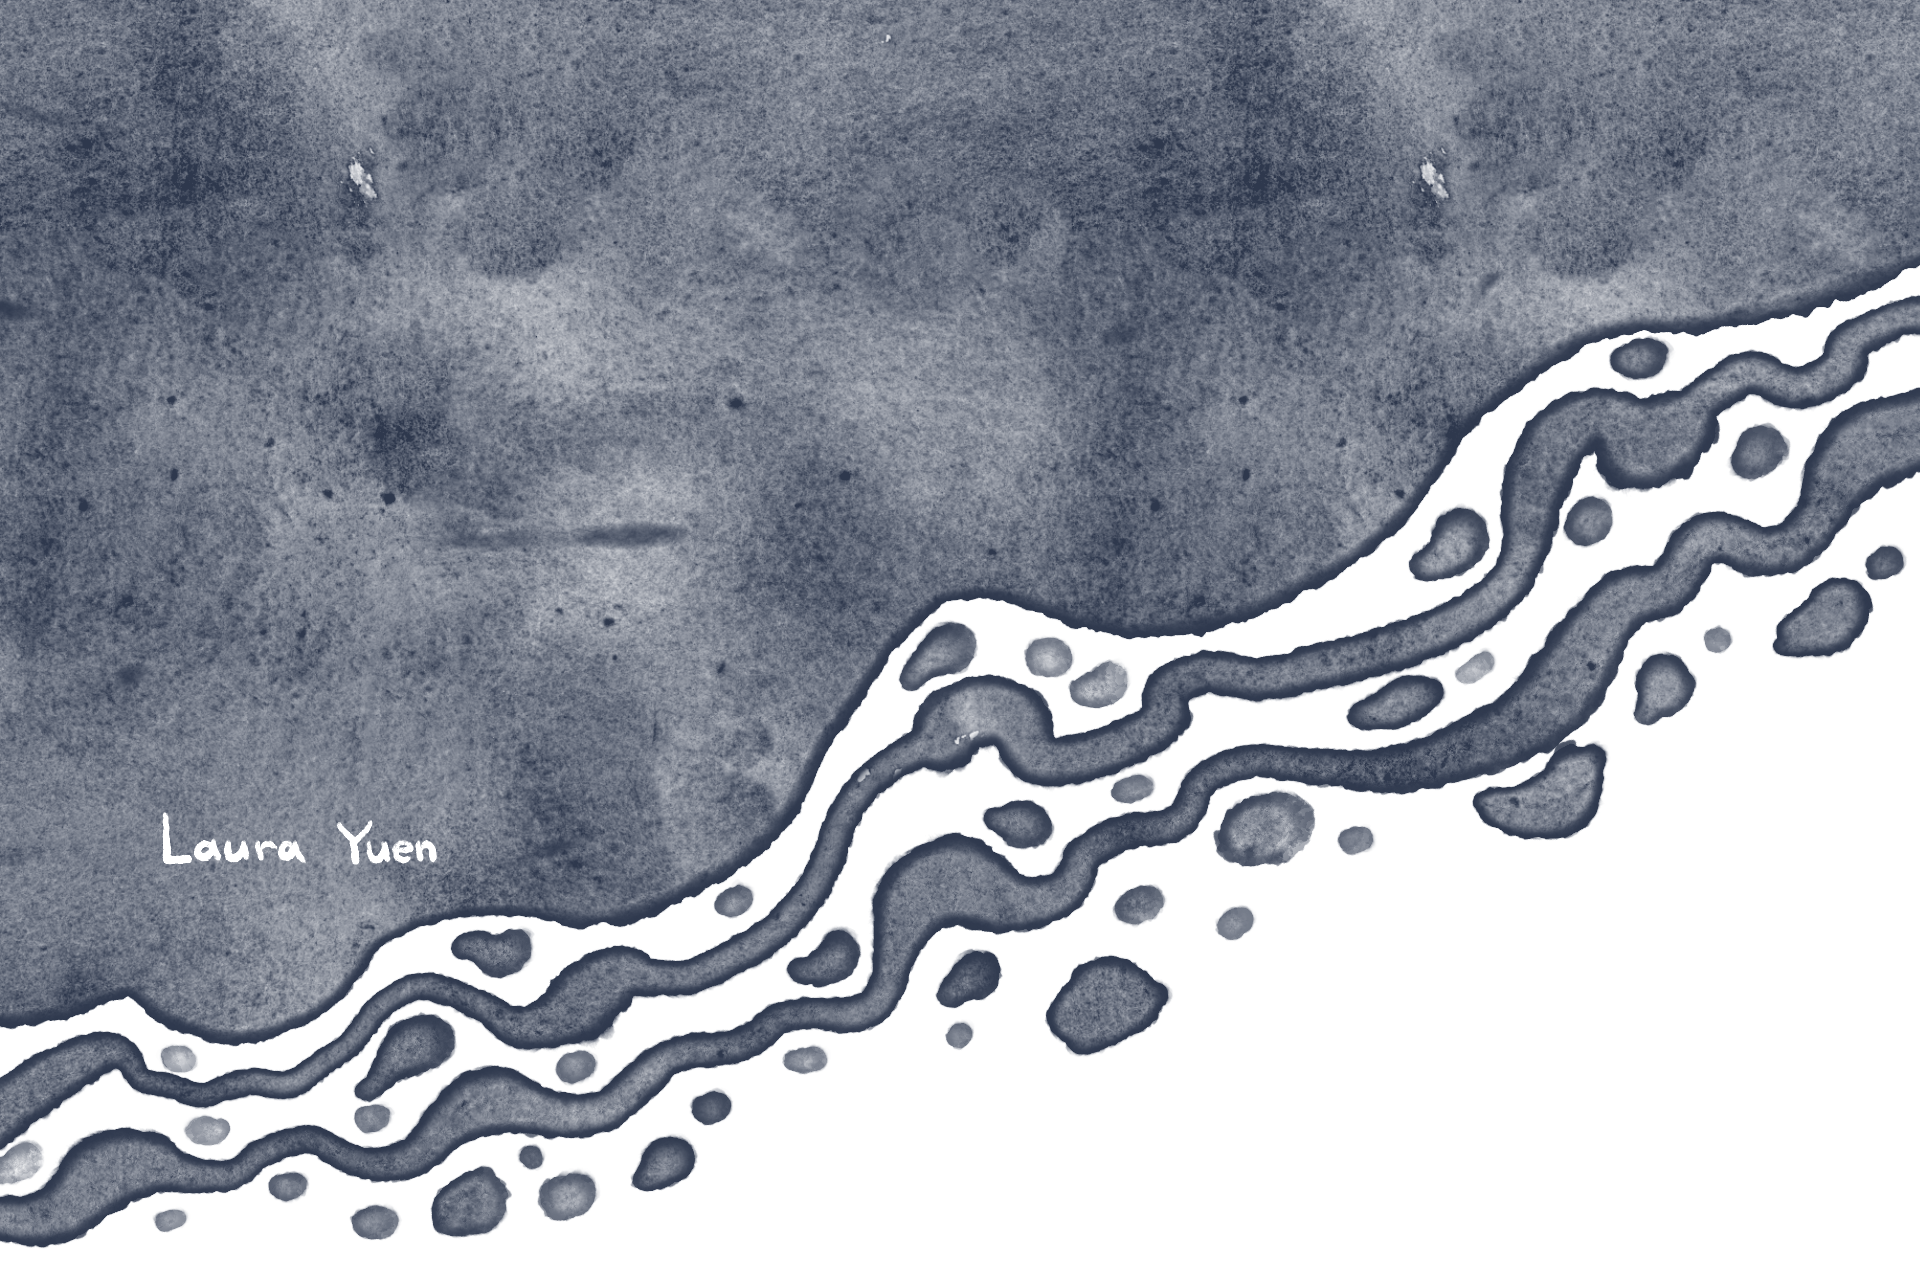
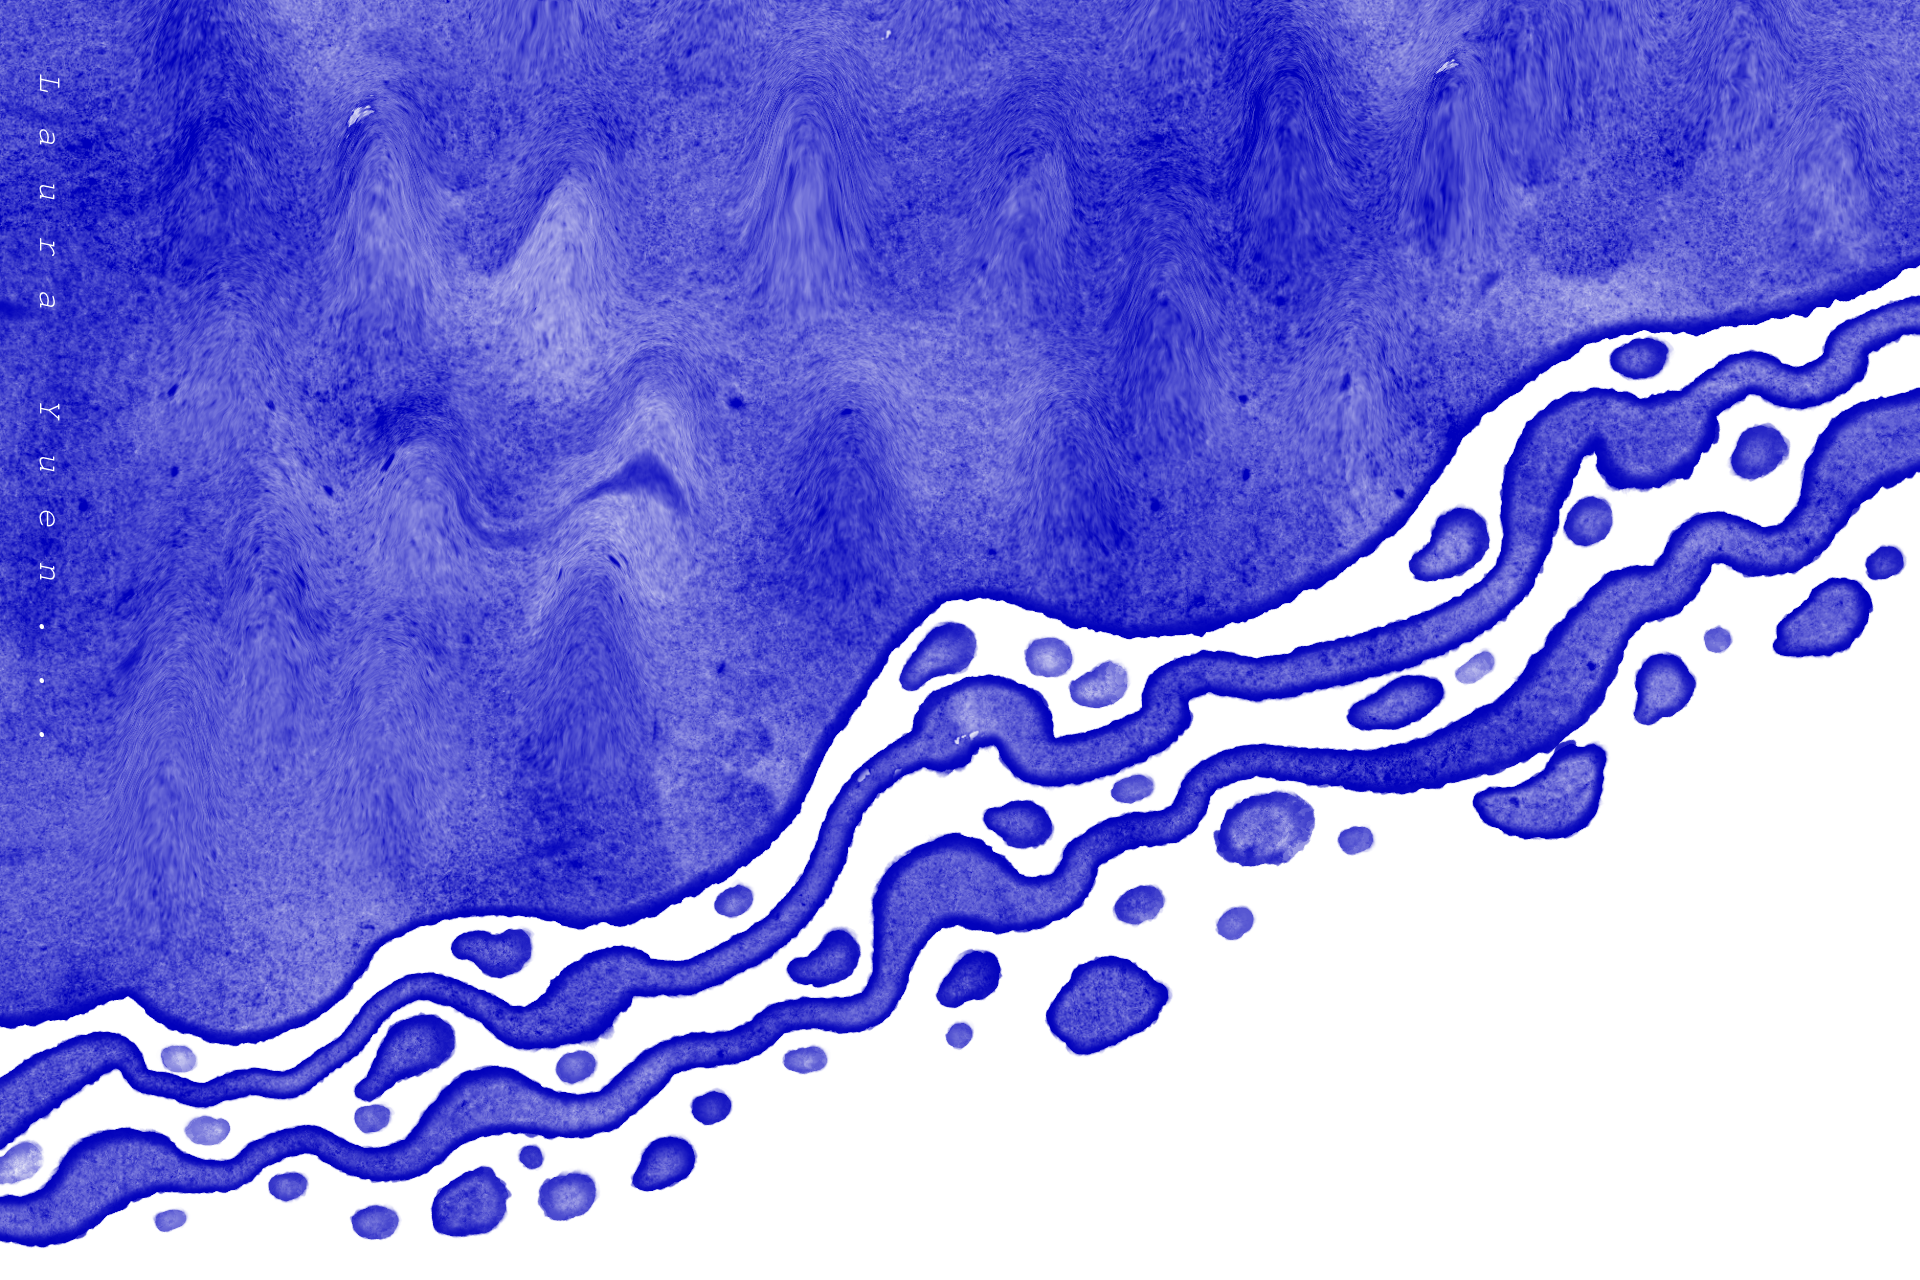
header and hero image changes

diff --git a/index.html b/index.html
@@ -5,18 +5,172 @@
 
 	<meta charset="UTF-8" lang="en"/>
 	<title>Laura Yuen Portfolio</title>
+    <link rel="stylesheet" href="./css/style.css" />
     
 </head>
 <body>
-    <h1>Front-end Developer
-        <br>
-        UX/UI Tester
-        <br>
-        ILLustrator
-    </h1>
-
+    <header>
+      <!-- Navbar -->
+      <nav class="navbar navbar-expand-lg navbar-light bg-white">
+        <div class="container-fluid">
+          <button
+            class="navbar-toggler"
+            type="button"
+            data-mdb-toggle="collapse"
+            data-mdb-target="#navbarExample01"
+            aria-controls="navbarExample01"
+            aria-expanded="false"
+            aria-label="Toggle navigation"
+          >
+            <i class="fas fa-bars"></i>
+          </button>
+          
+          <div class="collapse navbar-collapse " id="navbarExample01">
+            <ul class="navbar-nav me-auto mb-2 mb-lg-0">
+              <li class="nav-item active">
+                <a class="nav-link" aria-current="page" href="#about">About Me</a>
+              </li>
+              <li class="nav-item">
+                <a class="nav-link" href="#work">Work</a>
+              </li>
+              <li class="nav-item">
+                <a class="nav-link" href="#contact">Contact Me</a>
+              </li>
+              <li class="nav-item">
+                <a class="nav-link" href="https://www.linkedin.com/in/laura-yuen-b24a2214a/">Resume</a>
+              </li>
+            </ul>
+          </div>
+        </div>
+      </nav>
+      <!-- Navbar -->
     
+      <!-- Background image -->
+      <div
+        class="p-5 text-align-right "
+        style="
+        background-size: cover;
+        height:550px;
+          background-image: url('./image/header-hero-new-size.png');
 
-	
-</body>
-</html>
+        "
+      >
+        <div class="mask";>
+          <div class="d-flex justify-content-left align-items-center h-100">
+            <div class="text-white">
+              <h1 class="mb-3">Front-end Developer
+            <br>
+            UX/UI Tester
+            <br>
+            ILLustrator
+          </h1>
+              <!-- <h4 class="mb-3">Subheading</h4> -->
+              <!-- <a class="btn btn-outline-light btn-lg" href="#!" role="button"
+              >Call to action</a -->
+            </div>
+          </div>
+        </div>
+      </div>
+    </header>
+
+
+  
+    <main class="page-wrapper">
+      <!-- about me -->
+      <section class="page-section" id="about">
+        <h2>About Me</h2>
+        <div class="page-divider"></div>
+        <div class="about-me-content">
+          <p>
+            Hi, I am Laura. I used be a UX/UI QA tester and I'm interested in website development.
+            <br>
+            It's my first time to study on front end development.
+            <br>
+            Now I am studying HTML and CSS.
+            <br>
+            Here's some works that I've done.
+          </p>
+        </div>
+      </section>
+  
+      <!-- portfolio container -->
+      <section class="page-section" id="work">
+        <h2>Work</h2>
+        <div class="page-divider"></div>
+        <div class="page-grid">
+          <a href="https://github.com/laurabbity915/challenge-module-1" class="project1-flex-item" target="_blank">
+            <div class="image-container">
+              <img src="./image/first-work.png" class="portfolio1 image" />
+              <div class="text-bottom-left">
+                
+                <h3>
+                  Challenge 1
+                  <p>Learning in best pratice of CSS and Git Push</p>
+                </h3>
+              </div>
+            </div>
+          </a>
+  
+          <a href="https://github.com/laurabbity915/My-Portfolio" class="project2-flex-item" target="_blank">
+            <div class="image-container">
+              <img src="./image/second-work.png" class="portfolio2 image" />
+              <div class="text-bottom-left">
+                <h3>
+                  Challenge 2
+                  <p>Build my own portfolio web and learning in CSS grid, </p>
+                  <p>flexbox and web responsive</p>
+                </h3>
+              </div>
+             
+            </div>
+          </a>
+          <a href="#" class="project3-flex-item">
+            <div class="image-container">
+              <img src="./images/02-portfolio-3.jpg" class="portfolio3 image" />
+              <div class="text-bottom-left">
+              <h3>
+                Coming soon
+                <p>discriptions</p>
+              </h3>
+             </div>
+            </div>
+          </a>
+  
+          <a href="#" class="project4-flex-item">
+            <div class="image-container">
+              <img src="./images/02-portfolio-3.jpg" class="portfolio4 image" />
+              <div class="text-bottom-left">
+                <h3>
+                  Coming soon
+                  <p>discriptions</p>
+                </h3>
+              </div>
+            </div>
+          </a>
+        </div>
+  
+      </section>
+  
+      <!-- contact -->
+      <section class="page-section contact" id="contact">
+        <h2>Contact Me</h2>
+        <div class="page-divider"></div>
+        <div class="content-me">
+          <ul>
+            <li>
+              <a href="mailto:laura_yuen915@outlook.com" target="_blank" class="contact-details"> laura_yuen915@outlook.com</a>
+            </li>
+            <li>
+              <a href="https://github.com/laurabbity915" target="_blank" class="contact-details"> Github</a>
+            </li>
+            <li>
+              <a href="https://www.linkedin.com/in/laura-yuen-b24a2214a/" target="_blank" class="contact-details"> Linkedin</a>
+            </li>
+          </ul>
+        </div>
+      </section>
+    </main>
+  </body>
+  <br>
+  <br>
+  </html>
